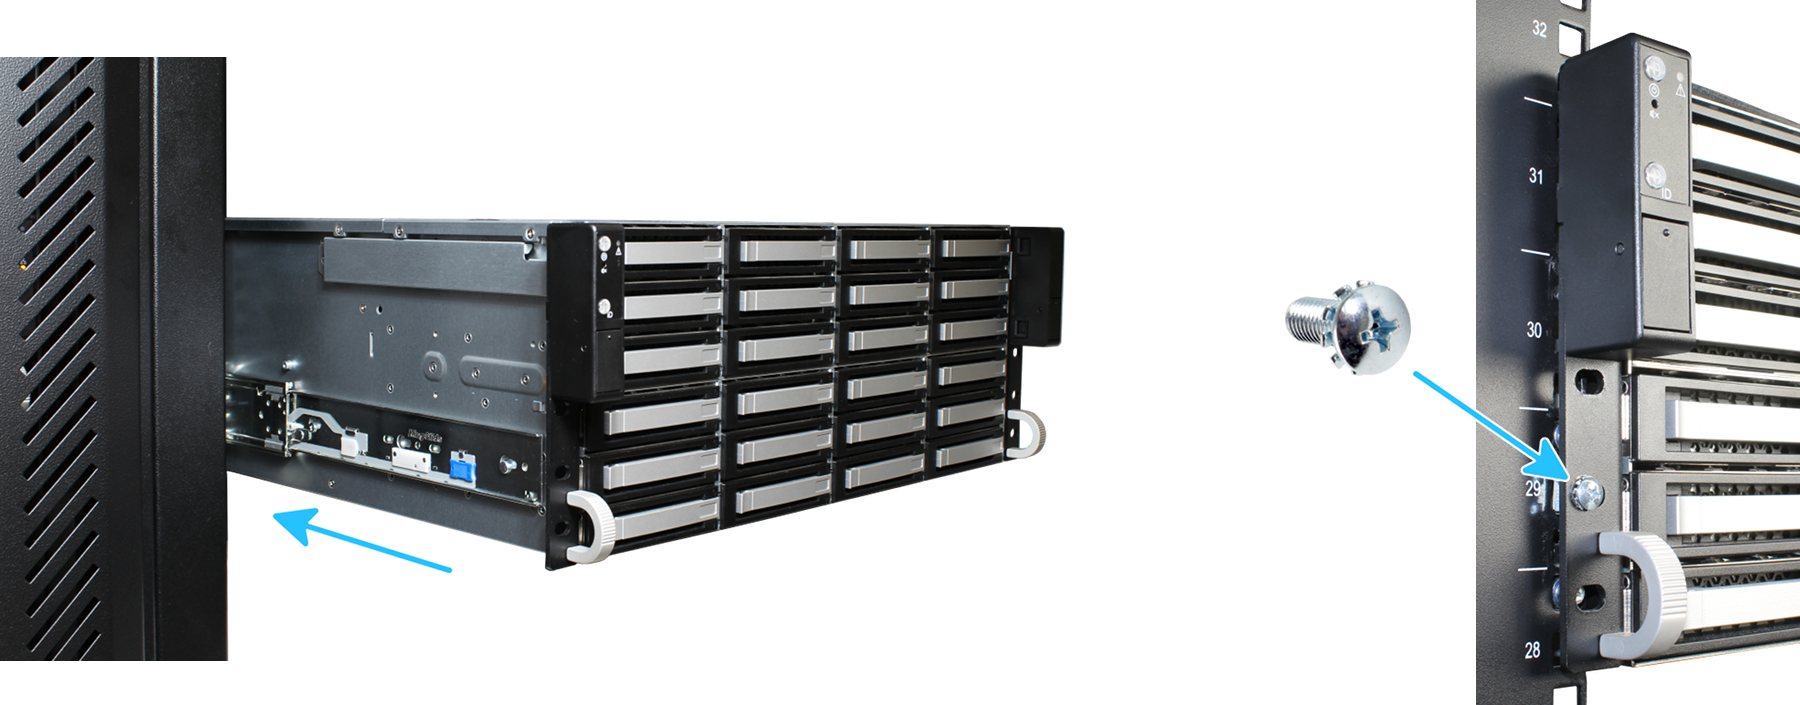
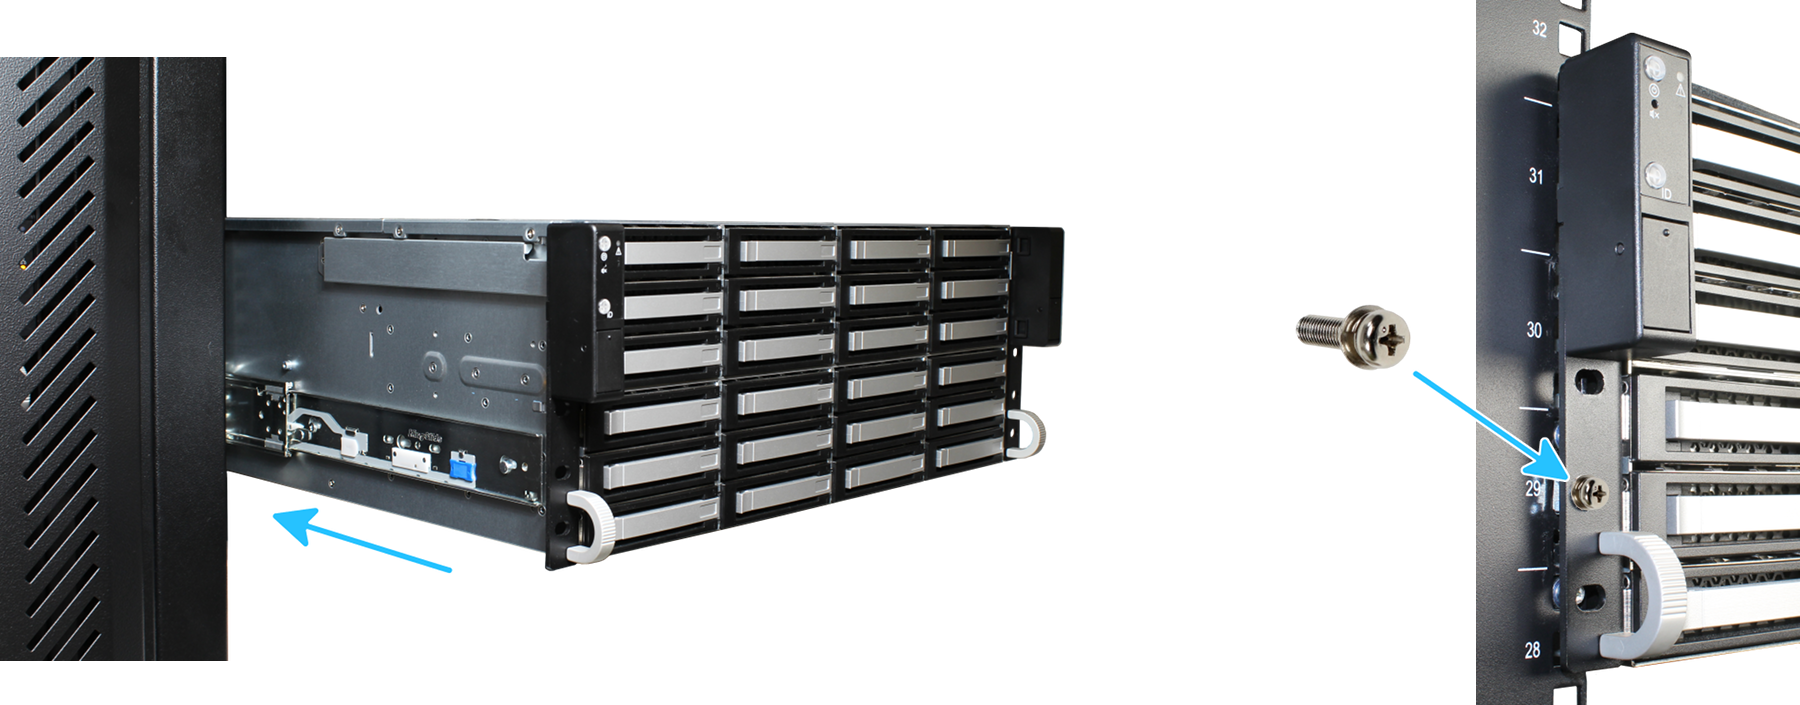
Update M-Series BSG from feedback

Changed region(s): [[0.7156, 0.4057, 0.8089, 0.5305], [0.8711, 0.6553, 0.9022, 0.7177]]

diff --git a/userguide/snippets/mseries.rst b/userguide/snippets/mseries.rst
@@ -7,7 +7,7 @@
 M-Series Unified Storage Array
 ------------------------------
 
-The %brand% M-Series Unified Storage Array is a 2U, 12-bay, hybrid
+The %brand% M-Series Unified Storage Array is a 4U, 24-bay, hybrid
 unified data storage array.
 
 
@@ -41,7 +41,8 @@ Carefully unpack the shipping boxes and locate these components:
    |                                            |                                                 |
    | DB9 to 3.5mm serial cable                  | Accessory kit with 2 IEC C13 to NEMA 5-15P      |
    |                                            | power cords, 2 IEC C14 to C13 cords, velcro     |
-   |                                            | cable ties, alternate pins for round hole racks |
+   |                                            | cable ties, M4x4L screws, M5x18 screws, screw   |
+   |                                            | posts, and alternate pins for round hole racks  |
    +--------------------------------------------+-------------------------------------------------+
 
 

diff --git a/userguide/snippets/es24m_drivetrays.rst b/userguide/snippets/es24m_drivetrays.rst
@@ -1,14 +1,15 @@
 Install Drive Trays
 ~~~~~~~~~~~~~~~~~~~
 
-Drive trays are used to mount drives in the array. Each drive tray has
-a status LED which is blue when active or amber if a fault has
-occurred.
+Drive trays are used to mount drives in the array. Each drive bay in
+the chassis has two indicator LEDs to the right of the tray. The
+status LED is blue when the drive is active, and the fault LED is
+amber if a fault has occurred.
 
-Press the silver button to open the latch. Carefully slide the tray
-into a drive bay until the right side of the latch touches the metal
-front edge of the chassis, then gently swing the latch closed until it
-clicks into place.
+Press the silver button to open the drive tray latch. Carefully slide
+the tray into a drive bay until the right side of the latch touches
+the metal front edge of the chassis, then gently swing the latch
+closed until it clicks into place.
 
 
 .. _drive_installation:
